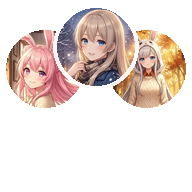
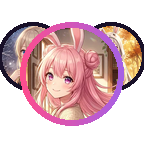
fix(rail): the character button is a picture, not a glyph on a plate
Every other button in the rail is a glyph that needs a plate to sit on; this
one is a picture of the people you would be switching to, and a bubble around
it only made it smaller and greyer. It is the odd one out on purpose — that
is what makes it findable. Bigger too: 52pt against the rail's 44.

The icon itself is now one portrait in a rose-to-violet ring with two more
peeking out behind it, instead of three equal circles nobody could resolve at
28pt.

Also: both Firebase modules resolve lazily and no-op when the native side is
missing. Every binary already in someone's hands has the JS but not the
native module, and react-native-firebase throws a hard "[runtime not ready]"
error on first use — which took the whole app down on the dev client. A kill
switch must never be the thing that kills the app.

Claude-Session: https://claude.ai/code/session_01SDbPHwWjtoEoosshrYh7kd

diff --git a/src/components/ActionsBubble.tsx b/src/components/ActionsBubble.tsx
@@ -1,5 +1,5 @@
 import React, { useState } from "react";
-import { View, Text, StyleSheet, Platform, Image } from "react-native";
+import { View, Text, StyleSheet, Platform, Image, Pressable } from "react-native";
 import { useTranslation } from "react-i18next";
 import {
     IconUser,
@@ -96,30 +96,27 @@ export default function ActionsBubble({
             {/* ─── Normal mode: show all action buttons ─── */}
             {!isInCall && (
                 <>
-                    {/* Three faces, not one silhouette: a single person icon
-                        reads as "my profile", which is why nobody found the
-                        character picker. The red dot is the nudge to look. */}
-                    <View>
-                        <Button
-                            variant="liquid"
-                            size="sm"
-                            tintColor={surface.glass}
-                            borderColor={surface.border}
-                            startIconNode={
-                                <Image
-                                    source={require("../../assets/icon-characters.png")}
-                                    style={{ width: 28, height: 28 }}
-                                    resizeMode="contain"
-                                />
-                            }
-                            textColor={iconColor}
-                            onPress={onOpenCharacter}
-                            isIconOnly={!showLabels}
-                        >
-                            {t("act.character")}
-                        </Button>
-                        <View style={[styles.notificationDot, { backgroundColor: surface.accent, borderColor: surface.glass, shadowColor: surface.accent }]} />
-                    </View>
+                    {/* No glass bubble on this one.
+                        Every other button in the rail is a glyph that needs a
+                        plate to sit on; this one is a picture of the people
+                        you would be switching to, and a plate around it only
+                        makes it smaller and greyer. It is the odd one out on
+                        purpose — that is what makes it findable. */}
+                    <Pressable
+                        onPress={onOpenCharacter}
+                        hitSlop={6}
+                        style={({ pressed }) => [styles.charBtn, pressed && { opacity: 0.75, transform: [{ scale: 0.96 }] }]}
+                    >
+                        <Image
+                            source={require("../../assets/icon-characters.png")}
+                            style={styles.charIcon}
+                            resizeMode="contain"
+                        />
+                        <View style={[styles.notificationDot, { backgroundColor: surface.accent, borderColor: "rgba(20,10,30,0.9)", shadowColor: surface.accent }]} />
+                        {showLabels && (
+                            <Text style={[styles.charLabel, { color: iconColor }]}>{t("act.character")}</Text>
+                        )}
+                    </Pressable>
                     <View>
                         <Button
                             variant="liquid"
@@ -295,6 +292,10 @@ export default function ActionsBubble({
 }
 
 const styles = StyleSheet.create({
+    /** The character picker: a picture, not a glyph on a plate. */
+    charBtn: { alignItems: "center", justifyContent: "center", paddingVertical: 2 },
+    charIcon: { width: 52, height: 52 },
+    charLabel: { fontSize: 11, fontWeight: "700", marginTop: 2 },
     actionsBubble: {
         position: "absolute",
         right: 20,

diff --git a/src/services/crash.ts b/src/services/crash.ts
@@ -1,4 +1,31 @@
-import crashlytics from "@react-native-firebase/crashlytics";
+import type { FirebaseCrashlyticsTypes } from "@react-native-firebase/crashlytics";
+
+/**
+ * Resolve the native module lazily, and only once.
+ *
+ * A binary built before Crashlytics was added — every build already in
+ * someone's hands, and the iOS dev client on this machine — has the JS package
+ * but not the native module, and react-native-firebase throws a hard
+ * "[runtime not ready]" error the first time it is called. Reporting must
+ * never be the thing that takes the app down, so a missing module is simply a
+ * no-op here.
+ */
+let mod: (() => FirebaseCrashlyticsTypes.Module) | null | undefined;
+
+function client(): FirebaseCrashlyticsTypes.Module | null {
+    if (mod === undefined) {
+        try {
+            mod = require("@react-native-firebase/crashlytics").default;
+        } catch {
+            mod = null;
+        }
+    }
+    try {
+        return mod ? mod() : null;
+    } catch {
+        return null;
+    }
+}
 
 /**
  * Crashlytics, wrapped so the rest of the app never imports it directly.
@@ -21,7 +48,7 @@ export const crash = {
      */
     async enable() {
         try {
-            await crashlytics().setCrashlyticsCollectionEnabled(true);
+            await client()?.setCrashlyticsCollectionEnabled(true);
         } catch (e) {
             console.warn("[crashlytics] enable:", e);
         }
@@ -32,27 +59,29 @@ export const crash = {
      * opens its dashboard after the first report arrives.
      */
     testCrash() {
-        crashlytics().log("manual test crash from settings");
-        crashlytics().crash();
+        const c = client();
+        if (!c) return;
+        c.log("manual test crash from settings");
+        c.crash();
     },
     /** Called once the user is known, so a crash report has someone attached. */
     async identify(userId: string | null, isPro: boolean) {
         try {
-            if (userId) await crashlytics().setUserId(userId);
-            await crashlytics().setAttribute("pro", String(isPro));
+            if (userId) await client()?.setUserId(userId);
+            await client()?.setAttribute("pro", String(isPro));
         } catch { /* reporting must never break the app */ }
     },
 
     /** Breadcrumb. Shows up in the log of the next crash. */
     log(message: string) {
-        try { crashlytics().log(message); } catch { }
+        try { client()?.log(message); } catch { }
     },
 
     /** A JS error worth a report, with the screen it came from. */
     record(error: unknown, where?: string) {
         try {
-            if (where) crashlytics().log(where);
-            crashlytics().recordError(
+            if (where) client()?.log(where);
+            client()?.recordError(
                 error instanceof Error ? error : new Error(String(error))
             );
         } catch { }
@@ -60,7 +89,7 @@ export const crash = {
 
     async setCharacter(id: string | null, name?: string) {
         try {
-            await crashlytics().setAttributes({
+            await client()?.setAttributes({
                 character_id: id ?? "",
                 character_name: name ?? "",
             });

diff --git a/src/services/remoteConfig.ts b/src/services/remoteConfig.ts
@@ -1,4 +1,27 @@
-import remoteConfig from "@react-native-firebase/remote-config";
+/**
+ * Resolve the native module lazily, and only once.
+ *
+ * A binary built before Remote Config was added has the JS package but not the
+ * native module, and react-native-firebase throws a hard "[runtime not ready]"
+ * error on first use. The kill switch must never be the thing that kills the
+ * app, so a missing module leaves every flag at its default — which is ON.
+ */
+let mod: any;
+
+function rc(): any | null {
+    if (mod === undefined) {
+        try {
+            mod = require("@react-native-firebase/remote-config").default;
+        } catch {
+            mod = null;
+        }
+    }
+    try {
+        return mod ? mod() : null;
+    } catch {
+        return null;
+    }
+}
 
 /**
  * Firebase Remote Config, used as a kill switch for ads.
@@ -33,15 +56,17 @@ let ready = false;
 
 export async function initRemoteConfig(): Promise<void> {
     try {
-        await remoteConfig().setDefaults(DEFAULTS as any);
-        await remoteConfig().setConfigSettings({
+        const c = rc();
+        if (!c) return;
+        await c.setDefaults(DEFAULTS as any);
+        await c.setConfigSettings({
             // A kill switch nobody can reach for an hour is not a kill switch.
             // One minute is the shortest Firebase will serve without throttling
             // a busy app.
             minimumFetchIntervalMillis: 60_000,
             fetchTimeMillis: 8_000,
         });
-        await remoteConfig().fetchAndActivate();
+        await c.fetchAndActivate();
         ready = true;
     } catch (e) {
         // Keep the defaults; never let this block start-up.
@@ -52,7 +77,7 @@ export async function initRemoteConfig(): Promise<void> {
 function bool(key: keyof typeof DEFAULTS): boolean {
     if (!ready) return DEFAULTS[key] as boolean;
     try {
-        return remoteConfig().getValue(key).asBoolean();
+        return rc()?.getValue(key).asBoolean() ?? (DEFAULTS[key] as boolean);
     } catch {
         return DEFAULTS[key] as boolean;
     }
@@ -61,7 +86,7 @@ function bool(key: keyof typeof DEFAULTS): boolean {
 function num(key: keyof typeof DEFAULTS): number {
     if (!ready) return DEFAULTS[key] as number;
     try {
-        const n = remoteConfig().getValue(key).asNumber();
+        const n = rc()?.getValue(key).asNumber() ?? NaN;
         return Number.isFinite(n) && n > 0 ? n : (DEFAULTS[key] as number);
     } catch {
         return DEFAULTS[key] as number;
